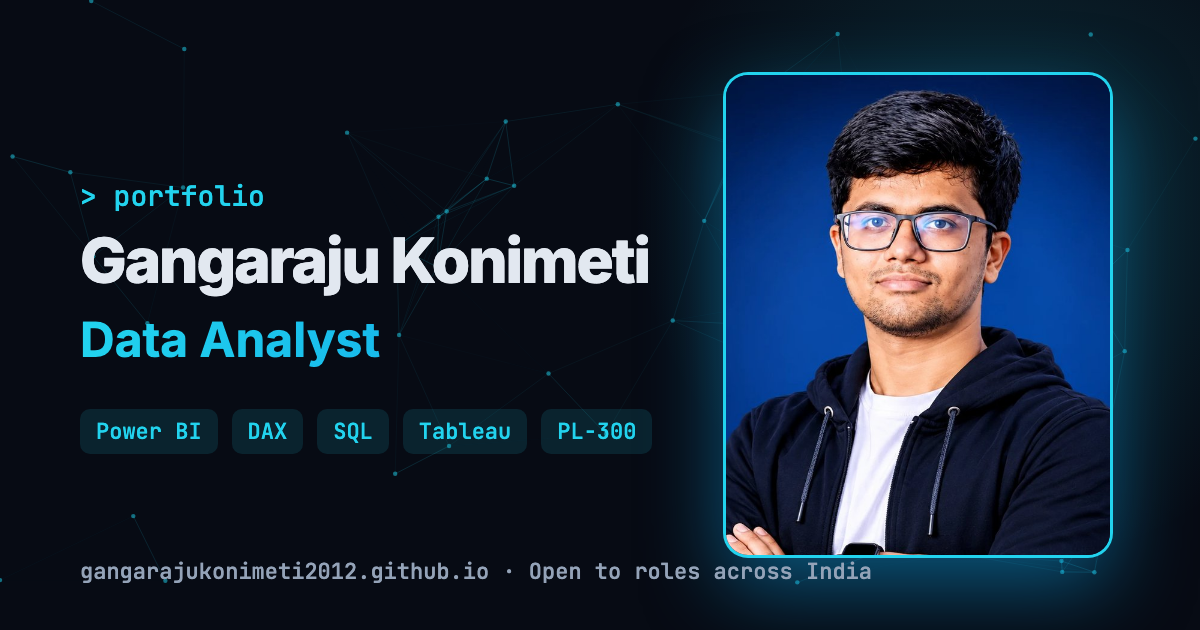
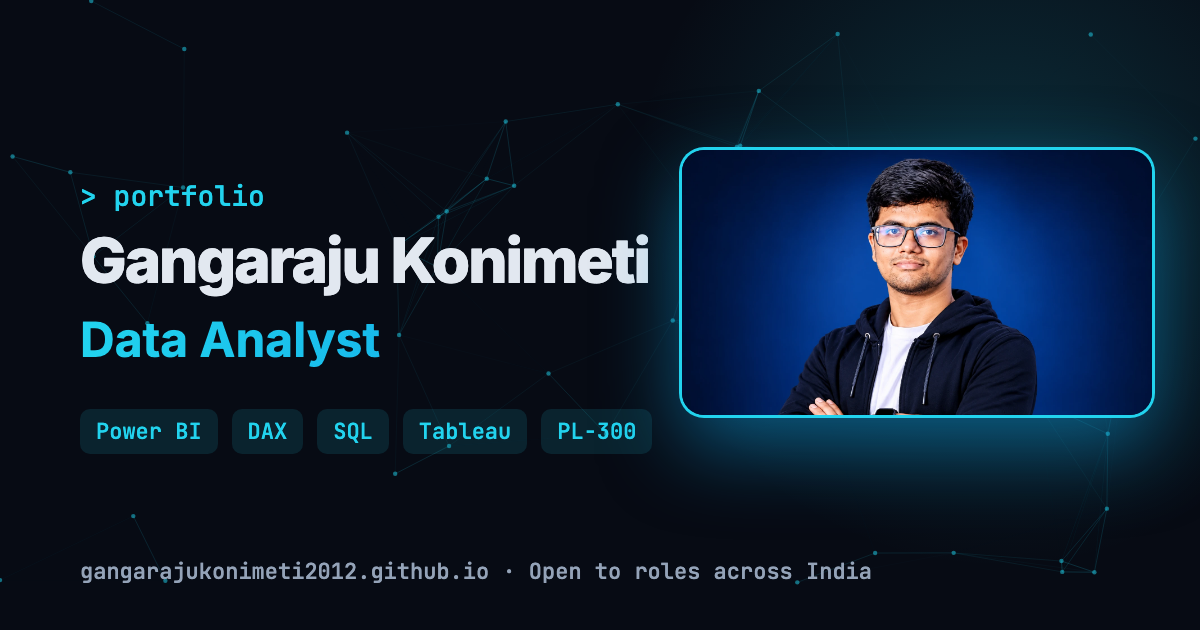
Show the shared photo exactly as provided (original file, uncropped), remove overlay chips

Changed region(s): [[0.5242, 0.0905, 0.9867, 0.9952]]

diff --git a/style.css b/style.css
@@ -107,11 +107,11 @@ main, .footer { position: relative; }
 }
 .pulse { width: 8px; height: 8px; border-radius: 50%; background: #22c55e; box-shadow: 0 0 0 0 rgba(34,197,94,.6); animation: pulse 2s infinite; }
 @keyframes pulse { 70% { box-shadow: 0 0 0 8px rgba(34,197,94,0); } 100% { box-shadow: 0 0 0 0 rgba(34,197,94,0); } }
-.hero-grid { display: grid; grid-template-columns: 1.1fr 1fr; gap: 56px; align-items: center; }
+.hero-grid { display: grid; grid-template-columns: 1.15fr 1fr; gap: 44px; align-items: center; }
 .hero-stack { margin-top: 10px; color: var(--muted); font-size: .92rem; letter-spacing: .02em; }
 
 /* ANIMATED AVATAR */
-.hero-visual { position: relative; perspective: 1000px; max-width: 400px; width: 100%; justify-self: center; animation: rise .9s cubic-bezier(.2,.7,.2,1) both .15s; }
+.hero-visual { position: relative; perspective: 1000px; width: 100%; animation: rise .9s cubic-bezier(.2,.7,.2,1) both .15s; }
 @keyframes rise { from { opacity: 0; transform: translateY(30px) scale(.96); } to { opacity: 1; transform: none; } }
 .avatar-card {
   position: relative; border-radius: 22px; padding: 3px; isolation: isolate;
@@ -125,7 +125,7 @@ main, .footer { position: relative; }
   animation: spin 6s linear infinite;
 }
 .avatar-card { overflow: hidden; }
-.avatar-card picture, .avatar-card img { display: block; width: 100%; height: auto; border-radius: 19px; }
+.avatar-card img { display: block; width: 100%; height: auto; border-radius: 19px; }
 .shine {
   position: absolute; inset: 3px; border-radius: 19px; pointer-events: none; overflow: hidden;
 }
@@ -146,7 +146,7 @@ main, .footer { position: relative; }
 .chip-2 { bottom: 10%; left: -18px; animation: float 5.5s ease-in-out infinite 1.4s; }
 @media (max-width: 900px) {
   .hero-grid { grid-template-columns: 1fr; gap: 36px; }
-  .hero-visual { order: -1; max-width: 320px; width: 100%; margin: 0 auto; }
+  .hero-visual { order: -1; max-width: 640px; width: 100%; margin: 0 auto; }
   .chip-1 { right: 8px; } .chip-2 { left: 8px; }
 }
 

diff --git a/index.html b/index.html
@@ -83,14 +83,9 @@
         </div>
         <div class="hero-visual">
           <div class="avatar-card" id="avatarCard">
-            <picture>
-              <source srcset="assets/img/photo.webp" type="image/webp" />
-              <img src="assets/img/photo.jpg" alt="Photo of Gangaraju Konimeti" width="640" height="800" fetchpriority="high" />
-            </picture>
+            <img src="assets/img/photo.webp" alt="Photo of Gangaraju Konimeti" width="1672" height="941" fetchpriority="high" />
             <span class="shine" aria-hidden="true"></span>
           </div>
-          <span class="chip chip-1 mono" aria-hidden="true">PL-300 ✓</span>
-          <span class="chip chip-2 mono" aria-hidden="true">SUM(insights)</span>
         </div>
       </div>
     </section>
